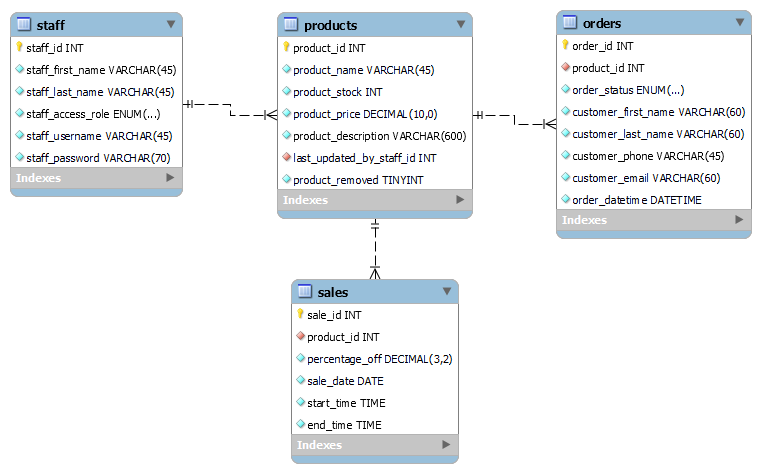
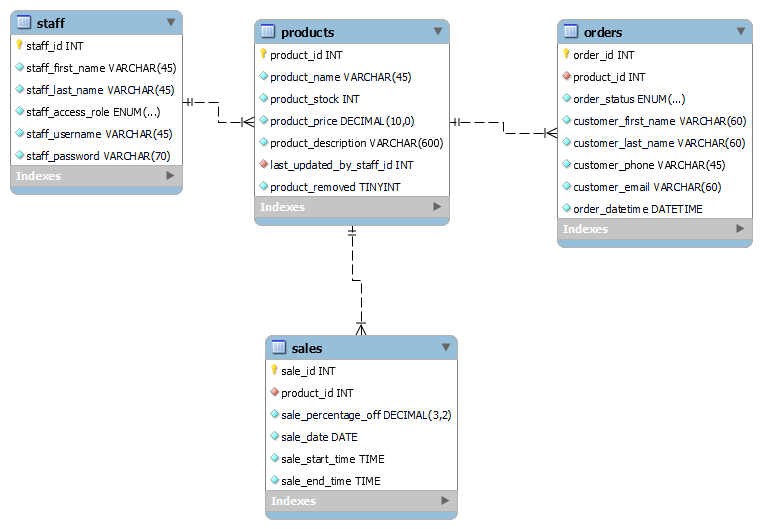
Sales table columns should be prefixed

diff --git a/models/sales.js b/models/sales.js
@@ -1,10 +1,10 @@
 import { db_conn } from "../database.js";
 
 export function newSale(
-    sale_id,
+    id,
     product_id,
     percentage_off,
-    sale_date,
+    date,
 ) {
     return {
         sale_id,
@@ -22,7 +22,7 @@ export function getAll() {
                 result => newSale(
                     result.sale_id,
                     result.product_id,
-                    result.percentage_off,
+                    result.sale_percentage_off,
                     result.sale_date
                 )
             )
@@ -38,7 +38,7 @@ export function create(sale) {
         `,
         [
             sale.product_id,
-            sale.percentage_off,
+            sale.sale_percentage_off,
             sale.sale_date
         ]
     )
@@ -48,6 +48,7 @@ export function deleteById(saleId) {
     return db_conn.query("DELETE FROM sales WHERE sale_id = ?", [saleId])
 }
 
+
 export function getAllSalesThisWeek() {
     return db_conn.query(
         `
@@ -56,11 +57,11 @@ export function getAllSalesThisWeek() {
             product_description, 
             product_stock,
             product_price,
-            percentage_off, 
-            (product_price * (1 - percentage_off)) as sale_price, 
+            sale_percentage_off, 
+            (product_price * (1 - sale_percentage_off)) as sale_price, 
             (DAYOFWEEK(sale_date) - 1) as sale_day, 
-            start_time, 
-            end_time 
+            sale_start_time, 
+            sale_end_time 
         FROM sales 
         INNER JOIN products 
         ON sales.product_id = products.product_id 
